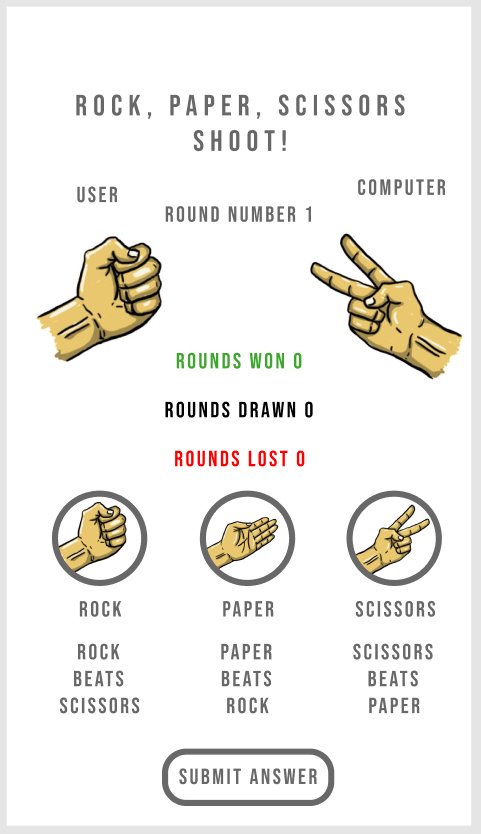
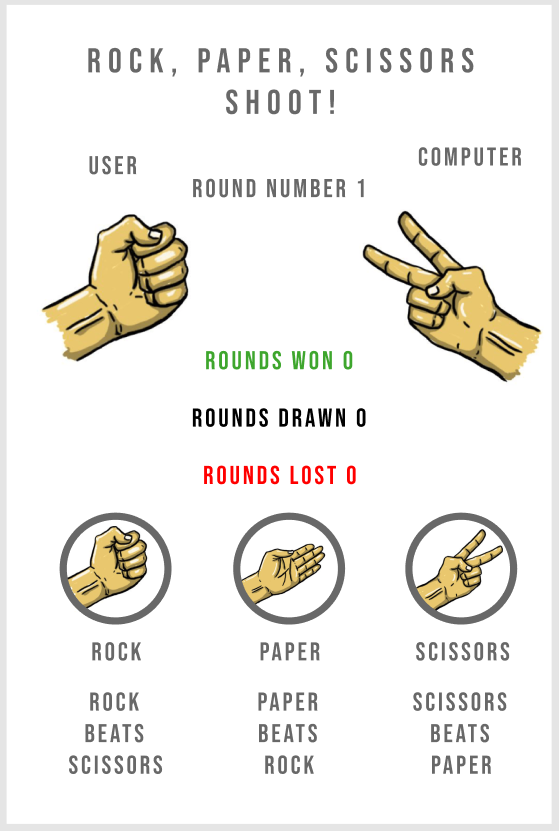
readme file updated to include initial lighthouse testing and code references

diff --git a/assets/js/script.js b/assets/js/script.js
@@ -9,8 +9,8 @@ document.addEventListener("DOMContentLoaded", function () {
             let userAnswer = this.getAttribute("data-type");
             playGame(userAnswer);
             setTimeout(function () {
-                returnGame(userAnswer)
-            }, 3000)
+                returnGame(userAnswer);
+            }, 3000);
         });
     }
 });
@@ -61,27 +61,24 @@ function returnGame(userAnswer) {
         displayComputerRock(randomComputerAnswer);
         setTimeout(function () {
             alert(`You played: ${userAnswer} \nThe computer played: ${randomComputerAnswer} \nIt's a draw!`);
-            increaseRoundNumber()
-            increaseRoundsDrawn()
-
+            increaseRoundNumber();
+            increaseRoundsDrawn();
         }, 1000);
 
     } else if (randomComputerAnswer === "Rock" && userAnswer === "Paper") {
         displayComputerRock(randomComputerAnswer);
         setTimeout(function () {
             alert(`You played: ${userAnswer} \nThe computer played: ${randomComputerAnswer} \nYou won!`);
-            increaseRoundNumber()
-            increaseRoundsWon()
-
+            increaseRoundNumber();
+            increaseRoundsWon();
         }, 1000);
 
     } else if (randomComputerAnswer === "Rock" && userAnswer === "Scissors") {
         displayComputerRock(randomComputerAnswer);
         setTimeout(function () {
             alert(`You played: ${userAnswer} \nThe computer played: ${randomComputerAnswer} \nYou lost!`);
-            increaseRoundNumber()
-            increaseRoundsLost()
-
+            increaseRoundNumber();
+            increaseRoundsLost();
         }, 1000);
 
 
@@ -89,57 +86,49 @@ function returnGame(userAnswer) {
         displayComputerPaper(randomComputerAnswer);
         setTimeout(function () {
             alert(`You played: ${userAnswer} \nThe computer played: ${randomComputerAnswer} \nYou lost!`);
-            increaseRoundNumber()
-            increaseRoundsLost()
-
+            increaseRoundNumber();
+            increaseRoundsLost();
         }, 1000);
 
     } else if (randomComputerAnswer === "Paper" && userAnswer === "Paper") {
         displayComputerPaper(randomComputerAnswer);
         setTimeout(function () {
             alert(`You played: ${userAnswer} \nThe computer played: ${randomComputerAnswer} \nIt's a draw!`);
-            increaseRoundNumber()
-            increaseRoundsDrawn()
-
+            increaseRoundNumber();
+            increaseRoundsDrawn();
         }, 1000);
 
     } else if (randomComputerAnswer === "Paper" && userAnswer === "Scissors") {
         displayComputerPaper(randomComputerAnswer);
         setTimeout(function () {
             alert(`You played: ${userAnswer} \nThe computer played: ${randomComputerAnswer} \nYou won!`);
-            increaseRoundNumber()
-            increaseRoundsWon()
-
+            increaseRoundNumber();
+            increaseRoundsWon();
         }, 1000);
 
     } else if (randomComputerAnswer === "Scissors" && userAnswer === "Rock") {
         displayComputerScissors(randomComputerAnswer);
         setTimeout(function () {
             alert(`You played: ${userAnswer} \nThe computer played: ${randomComputerAnswer} \nYou won!`);
-            increaseRoundNumber()
-            increaseRoundsWon()
-
+            increaseRoundNumber();
+            increaseRoundsWon();
         }, 1000);
 
     } else if (randomComputerAnswer === "Scissors" && userAnswer === "Paper") {
         displayComputerScissors(randomComputerAnswer);
         setTimeout(function () {
             alert(`You played: ${userAnswer} \nThe computer played: ${randomComputerAnswer} \nYou lost!`);
-            increaseRoundNumber()
-            increaseRoundsLost()
-
+            increaseRoundNumber();
+            increaseRoundsLost();
         }, 1000);
 
     } else if (randomComputerAnswer === "Scissors" && userAnswer === "Scissors") {
         displayComputerScissors(randomComputerAnswer);
         setTimeout(function () {
             alert(`You played: ${userAnswer} \nThe computer played: ${randomComputerAnswer} \nIt's a draw!`);
-            increaseRoundNumber()
-            increaseRoundsDrawn()
-
+            increaseRoundNumber();
+            increaseRoundsDrawn();
         }, 1000);
-
-
 
     } else {
         alert(`Unknown game type: `);
@@ -201,10 +190,3 @@ function increaseRoundsLost() {
     }
     document.getElementById("loss").innerHTML = roundsLost;
 }
-
-function focusInput() {
-    document.getElementById('myText').focus();
-  }
-  function blurInput() {
-    document.getElementById('myText').blur();
-  }

diff --git a/index.html b/index.html
@@ -31,11 +31,11 @@
         </div>
         <div class="column2">
             <div class="round-number">Round Number <span id="round">1</span></div>
-            <section class="scoreboard">
+            <div class="scoreboard">
                 <p class="win">Rounds Won <span id="win">0</span>
                     <p class="draw">Rounds Drawn <span id="draw">0</span>
                         <p class="lose">Rounds Lost <span id="loss">0</span>   
-            </section>
+            </div>
         </div>
         <div class="column3">
             <div class="player-name">COMPUTER</div>
@@ -65,12 +65,6 @@
             <p class="rules">Scissors Beats Paper</p>
         </div>
     </div>
-    
-    <input type="text" id="myText" value="Sample Text">
-<br><br>
-<button type="button" onclick="focusInput()">Click me to gain focus</button>
-<button type="button" onclick="blurInput()">Click me to lose focus</button>
-
     <script src="assets/js/script.js"></script>
 </body>
 </html>

diff --git a/assets/css/style.css b/assets/css/style.css
@@ -165,6 +165,15 @@ body {
 
 }
 
+.button-style:active {
+    background-color: white;
+    border: 7.5px solid;
+    border-color: #686868;
+    width: 140px;
+    height: 140px;
+
+}
+
 /* Rules/Instructions*/
 
 .rules-area {
@@ -189,13 +198,6 @@ body {
     flex-direction: column;
     align-items: center;
     justify-content: start;
-}
-
-.submit-container{
-    display: flex;
-    align-items: center;
-    justify-content: center;
-    margin-top: 25px;
 }
 
 /* --------- Media queries */

diff --git a/README.md b/README.md
@@ -43,17 +43,30 @@ Responsively designed to disply on a range of devices from desktops to mobiles.
 
     ![Figma Mobile Wireframe](https://raw.githubusercontent.com/liamsmith3194/rock-paper-scissors-shoot/main/assets/readme-images/mobile-wireframe.PNG)
     
-## Features REPLACE WHEN DONE
+## Features
 Below is a brief overview of the website and it's main features.
 
--   ### Landing Page ###
+### Fun animated images
 
-    -   Clean header with a navigation bar on the right side and bold logo on the left providing typography contrast. The header remains at the top of each page as you scroll down or use the provided links.
+-   hgj
 
+### Interactive buttons
 
-    -   Hero image with tag-line across a banner with opacity to make the offer stand out.
+-   hgj
+![Buttons](https://raw.githubusercontent.com/liamsmith3194/rock-paper-scissors-shoot/main/assets/readme-images/icons-rules.PNG)
 
-    ![Landing Page](https://raw.githubusercontent.com/liamsmith3194/personal-best-pt/main/assets/readme-images/header.PNG)
+### Alert message to confirm round outcome
+
+-   hgj
+
+### Automatically updating scoreboard & round number
+
+-   jghjh
+
+## Future Features
+
+-   User selects how many rounds to play, best of 5 etc.
+-   
 
 ## Technologies
 
@@ -76,24 +89,24 @@ Below is a brief overview of the website and it's main features.
 
 ## Testing
 
-### Validator Testing ###
+### Validator Testing
 
 The W3C Markup Validator and W3C CSS Validator Services were used to ensure there were no syntax errors in the project.
 
 -   [W3C Markup Validator](https://jigsaw.w3.org/css-validator/#validate_by_input) - [Results](https://validator.w3.org/nu/?doc=https%3A%2F%2Fliamsmith3194.github.io%2Frock-paper-scissors-shoot%2F)
 -   [W3C CSS Validator](https://jigsaw.w3.org/css-validator/#validate_by_input) - [Results](https://jigsaw.w3.org/css-validator/validator?uri=https%3A%2F%2Fliamsmith3194.github.io%2Frock-paper-scissors-shoot)
 
-### Lighthouse Testing ###
+### Lighthouse Testing
 
-Intial lighthouse socres produced a performance of 75 and accessibilty of 96. After exporting all images to webp files and giving the iframe element a title it improved to 94 (mobile) and 98 respectively.
+Intial lighthouse socres produced a performance of 100, accessibilty of 94 but only a score of 87 for best practices. After exporting all images to webp files and giving the iframe element a title it improved to 94 (mobile) and 98 respectively.
 
 -   Mobile Results
 
-![Lighthouse Mobile Results](https://raw.githubusercontent.com/liamsmith3194/personal-best-pt/main/assets/readme-images/lighthouse-mobile.PNG)
+![Lighthouse Mobile Results](https://raw.githubusercontent.com/liamsmith3194/rock-paper-scissors-shoot/main/assets/readme-images/lighthouse-mobile.PNG)
 
 -   Desktop Results
 
-![Lighthouse Desktop Results](https://raw.githubusercontent.com/liamsmith3194/personal-best-pt/main/assets/readme-images/lighthouse-desktop.PNG)
+![Lighthouse Desktop Results](https://raw.githubusercontent.com/liamsmith3194/rock-paper-scissors-shoot/main/assets/readme-images/lighthouse-desktop.PNG)
 
 ### Testing User Stories from User Experience (UX) Section
 
@@ -127,46 +140,47 @@ Intial lighthouse socres produced a performance of 75 and accessibilty of 96. Af
 -   A large amount of testing was done to ensure that all pages were linking correctly.
 -   Friends and family members were asked to review the site and documentation to point out any bugs and/or user experience issues.
 
-### Glitches TBC
+### Glitches
+
+-   Focus pseduo class doesn't work on mobile phones when a button selected.
 
 ## Deployment
 
-### GitHub Pages REPLACE WHEN DONE
+### GitHub Pages
 
 GitHub was the program used to deploy the the site, it was accomplished by using the following steps:
 
 1. Log in to GitHub and select the GitHub Repository.
 
-![GitHub Repository](https://raw.githubusercontent.com/liamsmith3194/personal-best-pt/main/assets/readme-images/github-repo.PNG)
+![GitHub Repository](https://raw.githubusercontent.com/liamsmith3194/rock-paper-scissors-shoot/main/assets/readme-images/github-repo.PNG)
 
 2. At the top of the page towards the middle of the screen you will see a "Settings" menu item with a cog icon.
 
-![GitHub Settings](https://raw.githubusercontent.com/liamsmith3194/personal-best-pt/main/assets/readme-images/github-settings.PNG)
+![GitHub Settings](https://raw.githubusercontent.com/liamsmith3194/rock-paper-scissors-shoot/main/assets/readme-images/github-settings.PNG)
 3. On the left hand side is a vertical list locate and click "Pages".
 
-![GitHub Pages](https://raw.githubusercontent.com/liamsmith3194/personal-best-pt/main/assets/readme-images/github-pages.PNG)
+![GitHub Pages](https://raw.githubusercontent.com/liamsmith3194/rock-paper-scissors-shoot/main/assets/readme-images/github-pages.PNG)
 
 4. Under the "Source" sub-heading, click on the dropdown by default "None" and choose "main".
 
-![GitHub Source](https://raw.githubusercontent.com/liamsmith3194/personal-best-pt/main/assets/readme-images/github-source.PNG)
+![GitHub Source](https://raw.githubusercontent.com/liamsmith3194/rock-paper-scissors-shoot/main/assets/readme-images/github-source.PNG)
 
 5. Click "Save"
 5. The page will automatically refresh.
 6. Scroll back down through the page to locate the now published site [link](https://github.com) in the "GitHub Pages" section.
 
-![GitHub Publish](https://raw.githubusercontent.com/liamsmith3194/personal-best-pt/main/assets/readme-images/github-published.PNG)
+![GitHub Publish](https://raw.githubusercontent.com/liamsmith3194/rock-paper-scissors-shoot/main/assets/readme-images/github-published.PNG)
 
 ## References
 
-### Code TBC
+### Code
 
--   Love Maths (Walkthrough Project) 
+-   Generating a random word (Rock, Paper or Scissors) from the console - Love Maths (Walkthrough Project)
 
--   Below is a screenshot showing the result **before** the StackOverflow Code:
+-   Transition CSS - Animates the hover pseduo on the buttons - Love Maths (Walkthrough Project)
 
--   The testimonials page was created using Flexbox from [CSS-Tricks](https://css-tricks.com/snippets/css/a-guide-to-flexbox/). This was used to enable the tablet screen size (and smaller) to view the testimonials as a list and one column. 
-
--   The blurred shadow effect used on the testimonials was taken from [w3schools](https://www.w3schools.com/cssref/css3_pr_box-shadow.asp), but amended to the developers criteria in terms of colour, depth and strength.
+-   Delay function - Used to display the computer's answer 3 seconds after the user has made their choice.
+A futher 1 second delay before alert message informs the user of round result. - [Stack Overflow](https://stackoverflow.com/questions/16873889/how-to-create-javascript-delay-function)
 
 ### Content
 
@@ -180,5 +194,5 @@ GitHub was the program used to deploy the the site, it was accomplished by using
 
 -   My Mentor for answering my questions throughout.
 
--   Slack users for constructive feedback and suggestions for improvement.
+-   Slack users for constructive feedback, suggestions for improvement and video calls.
 
